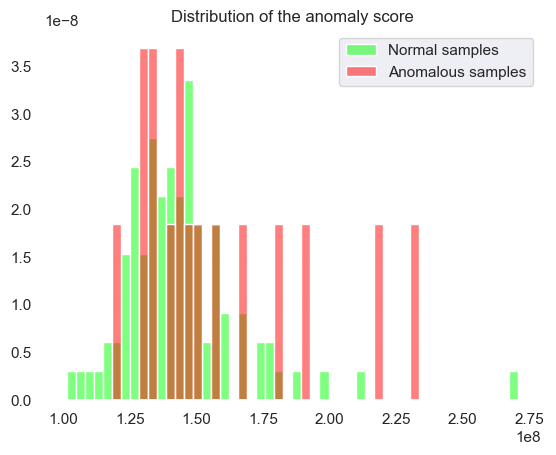
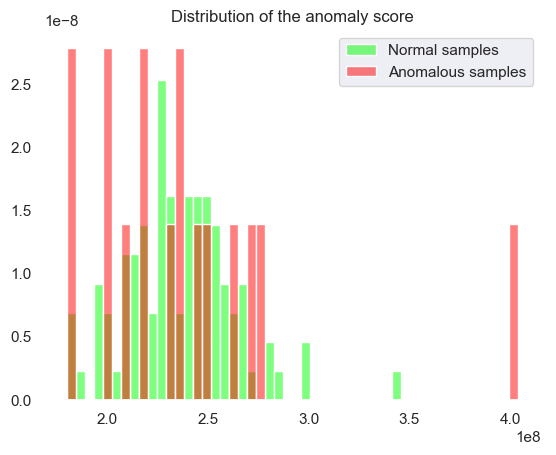
change dxxzz

diff --git a/alad/run.py b/alad/run.py
@@ -18,7 +18,7 @@ from utils.constants import IMAGES_DATASETS
 
 FREQ_PRINT = 200  # print frequency image tensorboard [20]
 FREQ_EV = 1
-PATIENCE = 10
+PATIENCE = 5
 
 
 def get_getter(ema):  # to update neural net with moving avg variables, suitable for ss learning cf Saliman
@@ -352,9 +352,14 @@ def train_and_test(dataset, nb_epochs, degree, random_seed, label,
                                keep_dims=False, name='d_loss')
             score_fm = tf.squeeze(score_fm)
 
-            score_z = tf.nn.sigmoid_cross_entropy_with_logits(
+            score_z_ema = tf.nn.sigmoid_cross_entropy_with_logits(
                 labels=tf.ones_like(l_generator_emaxxzz),
                 logits=l_generator_emaxxzz)
+            score_z_ema = tf.squeeze(score_z_ema)
+
+            score_z = tf.nn.sigmoid_cross_entropy_with_logits(
+                labels=tf.ones_like(xz_logit_fake),
+                logits=xz_logit_fake)
             score_z = tf.squeeze(score_z)
 
     if enable_early_stop:
@@ -554,6 +559,7 @@ def train_and_test(dataset, nb_epochs, degree, random_seed, label,
 
         logger.warn('Testing evaluation...')
 
+        scores_z_ema = []
         scores_z = []
         scores_ch = []
         scores_l1 = []
@@ -571,6 +577,7 @@ def train_and_test(dataset, nb_epochs, degree, random_seed, label,
             feed_dict = {x_pl: testx[ran_from:ran_to],
                          z_pl: np.random.normal(size=[batch_size, latent_dim]),
                          is_training_pl: False}
+            scores_z_ema += sess.run(score_z_ema, feed_dict=feed_dict).tolist()
             scores_z += sess.run(score_z, feed_dict=feed_dict).tolist()
             scores_ch += sess.run(score_ch, feed_dict=feed_dict).tolist()
             scores_l1 += sess.run(score_l1, feed_dict=feed_dict).tolist()
@@ -586,11 +593,13 @@ def train_and_test(dataset, nb_epochs, degree, random_seed, label,
             feed_dict = {x_pl: batch,
                          z_pl: np.random.normal(size=[batch_size, latent_dim]),
                          is_training_pl: False}
+            bscores_z_ema = sess.run(score_z_ema, feed_dict=feed_dict).tolist()
             bscores_z = sess.run(score_z, feed_dict=feed_dict).tolist()
             bscores_ch = sess.run(score_ch, feed_dict=feed_dict).tolist()
             bscores_l1 = sess.run(score_l1, feed_dict=feed_dict).tolist()
             bscores_l2 = sess.run(score_l2, feed_dict=feed_dict).tolist()
             bscores_fm = sess.run(score_fm, feed_dict=feed_dict).tolist()
+            scores_z_ema += bscores_z_ema[:size]
             scores_z += bscores_z[:size]
             scores_ch += bscores_ch[:size]
             scores_l1 += bscores_l1[:size]
@@ -599,6 +608,8 @@ def train_and_test(dataset, nb_epochs, degree, random_seed, label,
 
 
         model = 'alad_sn{}_dzz{}'.format(do_spectral_norm, allow_zz)
+        save_results(scores_z_ema, testy, model, dataset, 'z_ema',
+                     'dzzenabled{}'.format(allow_zz), label, random_seed, step)
         save_results(scores_z, testy, model, dataset, 'z',
                      'dzzenabled{}'.format(allow_zz), label, random_seed, step)
         save_results(scores_ch, testy, model, dataset, 'ch',

diff --git a/alad/arrhythmia_utilities.py b/alad/arrhythmia_utilities.py
@@ -266,8 +266,6 @@ def discriminator_xxzz(x, rec_x, z, rec_z, is_training=False, getter=None, reuse
                                               name='batch_normalization')
             x = leakyReLu(x)
 
-        net = tf.concat([x, rec_x], axis=1)
-
         # D(z,z)
         name_z = 'zz_layer_1'
         net_z = tf.concat([z, rec_z], axis=1)
@@ -277,7 +275,7 @@ def discriminator_xxzz(x, rec_x, z, rec_z, is_training=False, getter=None, reuse
             z = tf.layers.dropout(z, rate=0.5, name='dropout', training=is_training)
 
         # D(x,x,z,z)
-        y = tf.concat([net_x, net_z], axis=1)
+        y = tf.concat([x, z], axis=1)
 
         name_y = 'y_layer_1'
         with tf.variable_scope(name_y):
@@ -286,13 +284,12 @@ def discriminator_xxzz(x, rec_x, z, rec_z, is_training=False, getter=None, reuse
                                 kernel_initializer=init_kernel)
             y = leakyReLu(y)
             y = tf.layers.dropout(y, rate=0.5, name='dropout', training=is_training)
-        intermediate_layer = y
 
         name_y = 'y_layer_2'
         with tf.variable_scope(name_y):
-            logits = tf.layers.dense(y,
-                                     64,
-                                     kernel_initializer=init_kernel)
+            intermediate_layer = tf.layers.dense(y,
+                                                 64,
+                                                 kernel_initializer=init_kernel)
         name_y = 'y_layer_3'
         with tf.variable_scope(name_y):
             logits = tf.layers.dense(y,

diff --git a/utils/evaluations.py b/utils/evaluations.py
@@ -201,9 +201,9 @@ def save_results(scores, true_labels, model, dataset, method, weight, label,
     per = get_percentile(scores, dataset)
     y_pred = (scores >= per)
     print("-----------------------------")
-    print(y_pred)
-    print(scores)
-    print(per)
+    # print(y_pred)
+    # print(scores)
+    # print(per)
     precision, recall, f1, _ = precision_recall_fscore_support(true_labels.astype(int),
                                                                y_pred.astype(int),
                                                                average='binary')

diff --git a/data/arrhythmia.py b/data/arrhythmia.py
@@ -69,7 +69,7 @@ def _get_dataset(scale):
     """
     global final_dataset
     if not bool(final_dataset):
-        data = scipy.io.loadmat("D:/univesity/foqelisans/final_project/code/Adversarially-Learned-Anomaly-Detection1/data/arrhythmia.mat")
+        data = scipy.io.loadmat("D:/univesity/foqelisans/final_project/code/Adversarially-Learned-Anomaly-Detection_dxxzz/data/arrhythmia.mat")
         # data = scipy.io.loadmat("/content/drive/MyDrive/colab/ALAD/arrhythmia.mat")
 
         full_x_data = data["X"]
